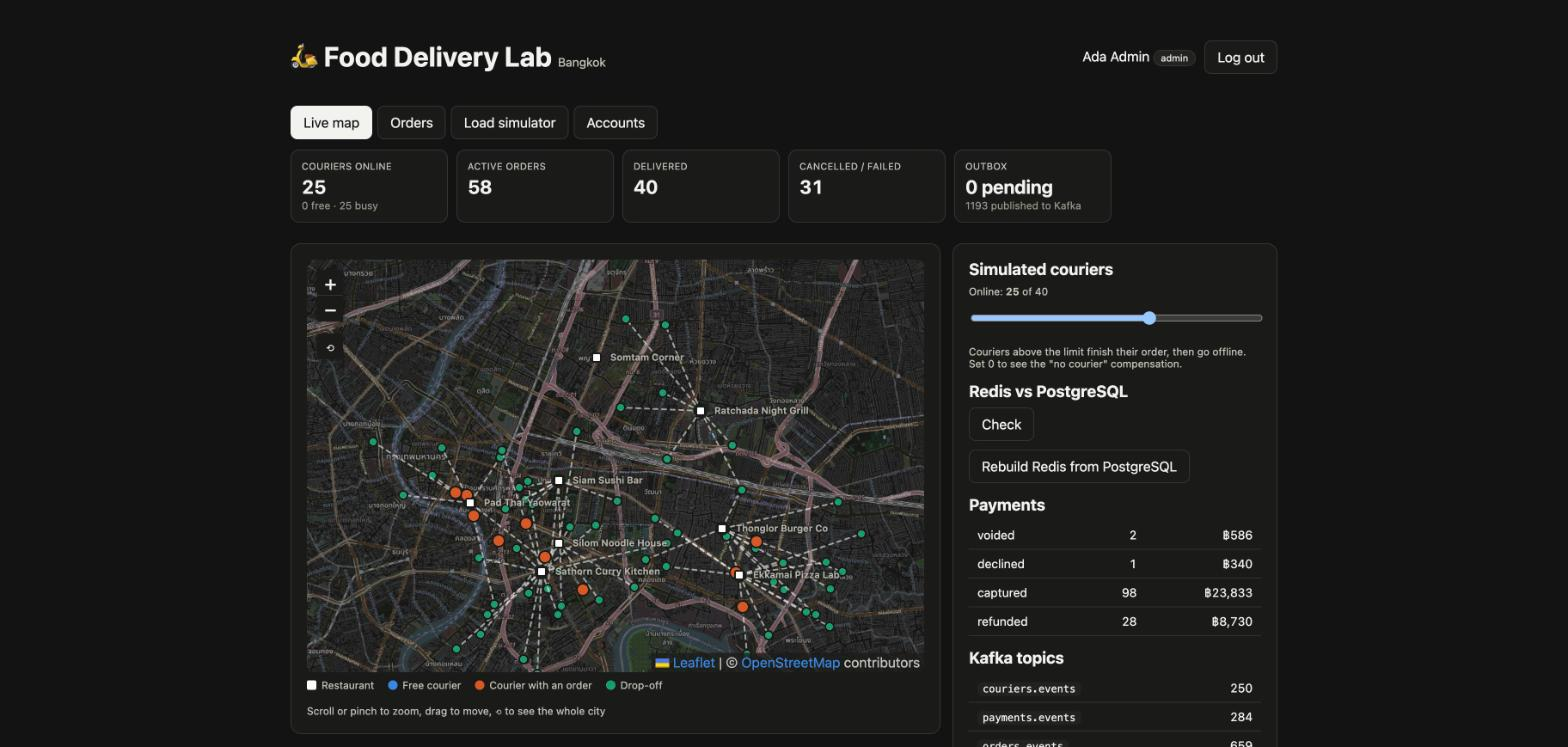
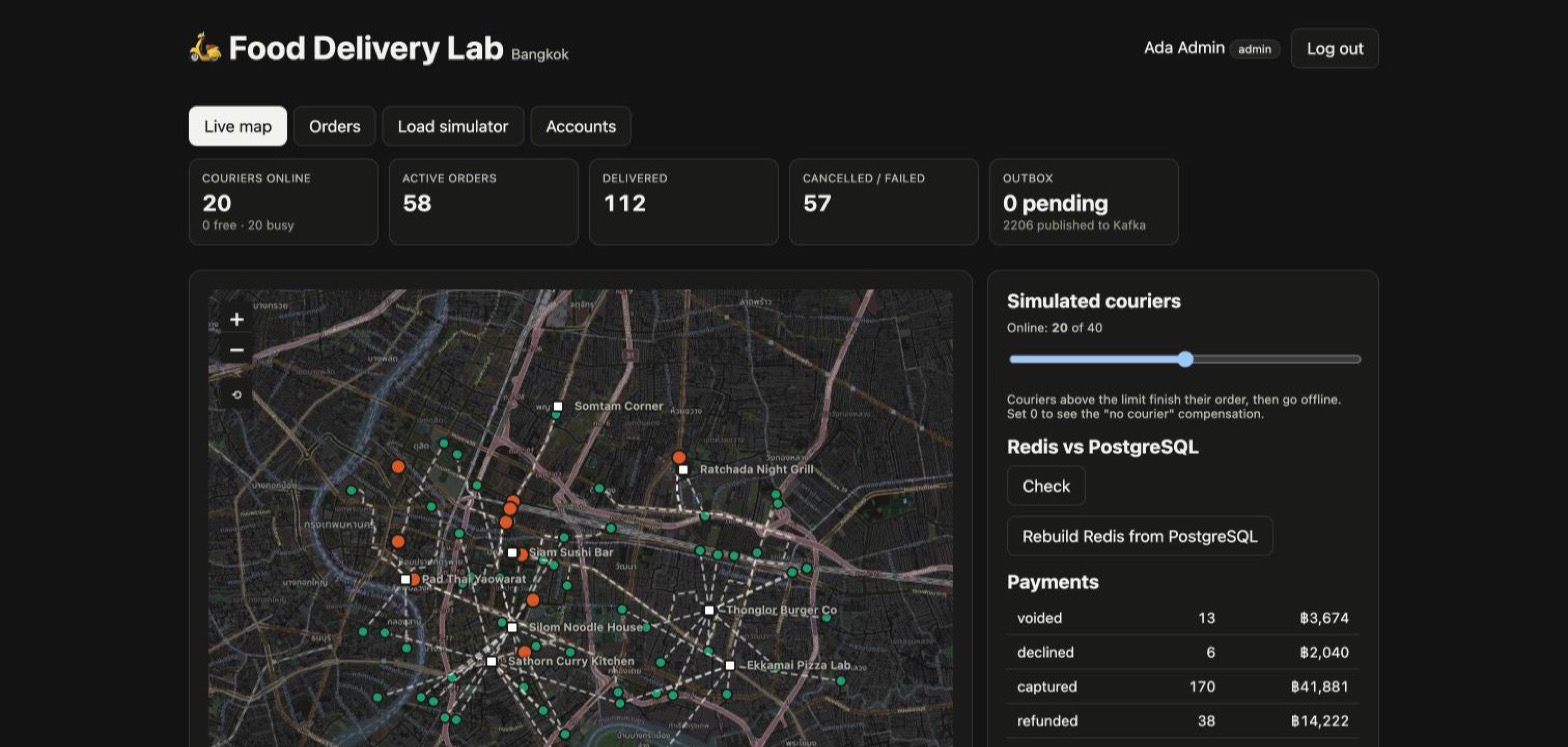
README: retake the live map screenshot with orders on their roads

diff --git a/README.md b/README.md
@@ -8,7 +8,7 @@
 ![Runs on](https://img.shields.io/badge/runs%20on-Docker%20%7C%20Podman-892ca0)
 [![License: MIT](https://img.shields.io/badge/license-MIT-green)](LICENSE)
 
-![Live map on OpenStreetMap during a load test: 60 orders, 25 couriers, routes from restaurants to drop-offs](docs/live-map.jpg)
+![Live map on OpenStreetMap during a load test: 60 orders, 25 couriers, assigned orders drawn along their roads](docs/live-map.jpg)
 
 A hands-on learning project that rebuilds the core of a food delivery app (think DoorDash / Grab Food / LINE MAN) for central **Bangkok**. It is small enough to read in an afternoon but keeps the hard parts:
 
